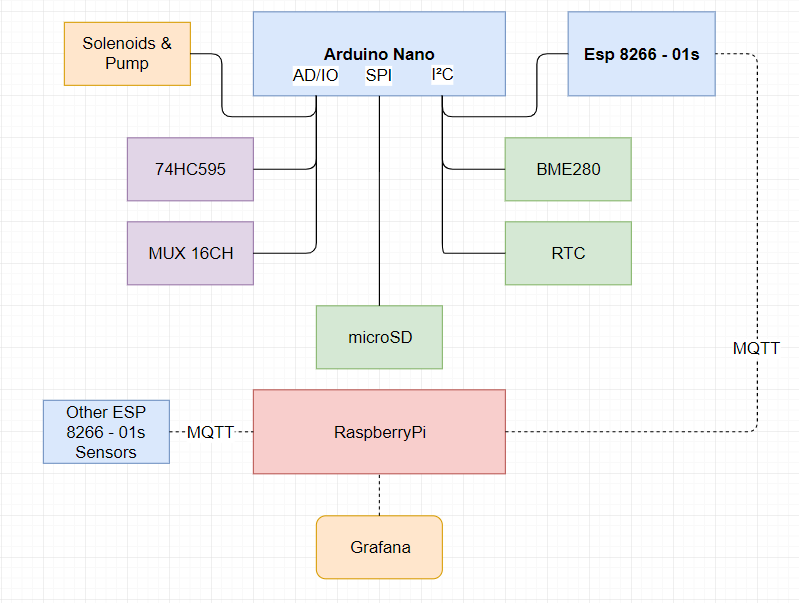
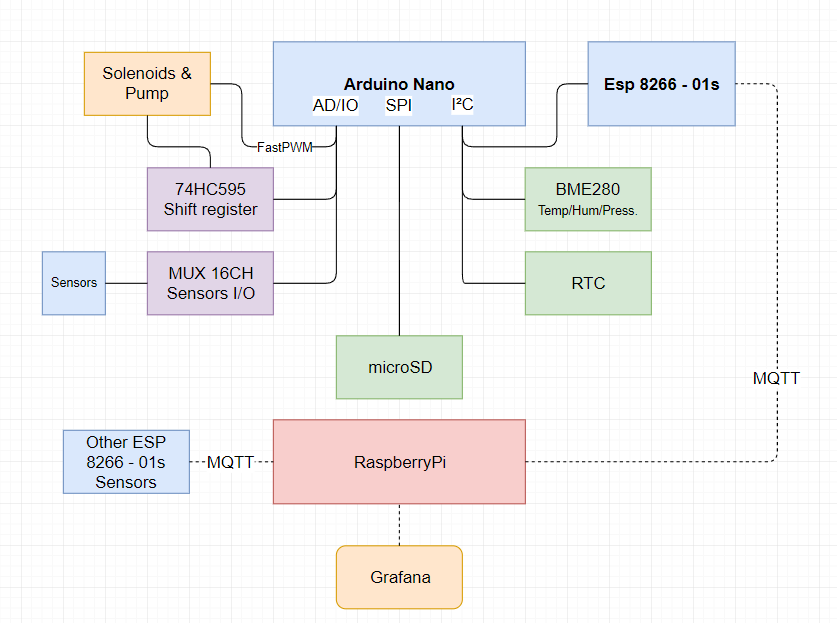
Documentation updated

Changed region(s): [[0.03, 0.0, 0.9011, 0.9851], [0.9011, 0.5672, 0.9912, 0.6269], [0.8711, 0.7164, 0.9312, 0.7463]]

diff --git a/README.md b/README.md
@@ -1,5 +1,5 @@
 # Bewae - Bewässerungsprojekt v3.1
-Momentan ist diese Version eher als Testversion zu sehen. Neu hinzugefügt und getestet wird nun die steuerbarkeit über MQTT.
+Diese Version ist eher als Testversion zu sehen. Neu hinzugefügt und getestet wird nun die steuerbarkeit über MQTT.<br>
 
 In den weiteren Ordnern befinden sich der Code für beide Controller sowie das json export für das Grafana dashboard. Die Konfiguration des Raspberrypi fehlt noch, die verwendete Datenbank ist Influxdb. (Die Scripts befinden sich am Pi im ordner py_scripts und werden automatisiert gestartet mit cron als su)
 
@@ -9,21 +9,25 @@ In den weiteren Ordnern befinden sich der Code für beide Controller sowie das j
 ## Mainboard (bew_entwurf_v2_7)
 **bew_entwurf_v2_7.fzz** Hauptplatine
 **Platine_01.fzz** als Erweiterung mit esp01, Buckconverter etc. <br>
+
 Die Schaltungen wurden mit fritzing erstellt, die Steckbrettansicht bietet gute Übersicht und eignet sich ideal für Prototypen.
 ![Main PCB](/bewae_v3_1.png "Main board")
 
-## Ziel:
-Automatisierte bewässerung der Balkonpflanzen. Zusätzlich speichern von Sensordaten.
+## Ziele:
+- Automatisierte bewässerung der Balkonpflanzen
+- Speichern von Sensordaten & cool graphs
+- Überwachung & Steuerung von unterwegs
 
 ## Beschreibung:
 Schaltungsaufbau grob übersichtlich im beigefügten Systemdiagramm.png als Blockschaltbild. Die Daten werden via ESP01 über MQTT an den RaspberryPi gesendet, dort gespeichert und dank Grafana als schöne Diagramme dargestellt.
- Automatisiert bewässert wird 2 mal Täglich morgends und abends, momentan sind theoretisch bis zu 6 kreisläufe und 2 Pumpen schalt und steuerbar. Mit einem MQTT messaging client ist möglich in die bewässerung einzugreifen und gespeicherte werte zu verändern, wobei die bewässerungszeit immer in sekunden gerechnet wird.
+Automatisiert bewässert wird momentan 2 mal Täglich morgends und abends, theoretisch sind bis zu 6 Ventile und 2 Pumpen schalt und steuerbar (erweiterbar). Mit einem MQTT messaging client ist möglich in die bewässerung einzugreifen und gespeicherte werte zu verändern sowie die Messdaten über Grafana im auge zu behalten.
 
 ## Details:
 ### Kommunikationn:
 ### I2C:
-(Beschreibung iic ergänzen)
-Im fall dieses Projektes spielt die Kommunikationn der beiden Mikrocontroller eine tragende Rolle. Grundsätzlich ist ein Multi-master betrieb möglich wenn auch oft nicht empfohlen. Für die fehlerfreie kommunikation müssen leider beide controller als Master dem Bus beitreten. Hauptsächlich als Master verwende ich den Arduino Nano der dem ESP-01 signalisiert wann er als Master die Kommunikationn übernehmen darf. In den weiteren Iterrationen des Programms möchte ich diese Eigenschaft noch mehr besser herausarbeiten.
+I²C (Inter-Integrated Circuit) ein Serieller Datenbus der von Philips Semiconductors entwickelt wurde und hauptsächlich für sehr kurze strecken (gerätintern) vorgesehen ist. <br>
+
+Im fall dieses Projektes spielt die Kommunikationn der beiden Mikrocontroller eine tragende Rolle. Grundsätzlich ist ein Multi-master betrieb möglich wenn auch oft nicht empfohlen. Für die fehlerfreie kommunikation in beide Richtungen müssen leider beide controller als Master dem Bus beitreten. Hauptsächlich als Master verwende ich den Arduino Nano der dem ESP-01 signalisiert wann er als Master die Kommunikationn übernehmen darf um komplikationen zu vermeiden. In den weiteren Iterrationen des Programms möchte ich diese Eigenschaft noch mehr besser herausarbeiten.
 
 ### MQTT:
 (beschreibung ergänzen)
@@ -33,9 +37,13 @@ Im fall dieses Projektes spielt die Kommunikationn der beiden Mikrocontroller ei
 
 ## Code ESP8266-01:
 ### Allgemein:
+<<<<<<< Updated upstream
 Dieser $\mu C$ wwird verwendet um dem System Zugang zum Lokalen Netzwerk zu verschaffen. Die Kommunikation erfolgt Seriel mit i2c. Den ESP-01 als slave des Nanos zu verwenden bringt einige Probleme mit sich. Die CPU frequenz des ESP-01 muss auf $160MHz$ statt den standardmäßigen $80MHz$ angehoben werden und am Nano muss die Frequenz des Buses reduziert werden. Damit auch der ESP-01 dem Arduino zuverläßig Daten senden kann wird der Bus mit 2 Master also Multimasterbetrieb betrieben. <br>Nach all diesen Anpassungen funktioniert die Kommunikation sehr stabil, sehr selten kommt es zu kleinen Fehlern in der Übertragung deshalb wird am Schluss einer Übertragung als letztes Byte eine festgelegte Zahl, die der Zuordnung und Kontrolle zum ausschluss von fehlern dient, gesendet.
+=======
+Dieser Mikrocontroller wwird verwendet um dem System Zugang zum Lokalen Netzwerk zu verschaffen. Die Kommunikation erfolgt Seriel mit i2c. Den ESP-01 als slave des Nanos zu verwenden bringt einige Probleme mit sich. Die CPU frequenz des ESP-01 muss auf *160MHz* statt den standardmäßigen *80MHz* angehoben werden und am Nano muss die Frequenz des Buses reduziert werden. Damit auch der ESP-01 dem Arduino zuverläßig Daten senden kann wird der Bus mit 2 Master also Multimasterbetrieb betrieben. <br>Nach all diesen Anpassungen funktioniert die Kommunikation sehr stabil, sehr selten kommt es zu kleinen Fehlern in der Übertragung deshalb wird am Schluss einer Übertragung als letztes Byte eine festgelegte Zahl, die der Zuordnung und Kontrolle zum ausschluss von fehlern dient, gesendet.
+>>>>>>> Stashed changes
 ### Details: Programmierung mit Arduino IDE
-Um die CPU frequenz des ESP beim programmieren mit der Arduino IDE zu ändern muss man beim Menüpunkt 'File' --> 'Preferences' und unter 'Additional Boards Manager URLs:' folgende ergänzt werden $'https://dl.espressif.com/dl/package_esp32_index.json, http://arduino.esp8266.com/stable/package_esp8266com_index.json'$ <br>
+Um die CPU frequenz des ESP beim programmieren mit der Arduino IDE zu ändern muss man beim Menüpunkt 'File' --> 'Preferences' und unter 'Additional Boards Manager URLs:' folgende ergänzt werden *https://dl.espressif.com/dl/package_esp32_index.json*, *http://arduino.esp8266.com/stable/package_esp8266com_index.json* <br>
 Nun kann man unter dem Menüpunkt 'Tools' --> 'Board' nach 'Generic ESP8266 Module' wählen. Nachdem die restlichen einstellugnen wie im aus dem Bild zu entnehmen vorgenommen wurden ist die IDE bereit für den Upload eventuell fehlende librarys müssen gegebenenfalls noch Installiert werden, dies ist einfach über den library manager möglich.
 ![ESP01 upload configuration](/esp01upload.png "Upload configuration")
 
@@ -47,10 +55,9 @@ Persöhnlich verwende ich gerade einen RaspberryPi 4 mit 4GB Ram auf dem auch ei
 - IP oder hostname des RaspberryPi (IP statisch vergeben)
 Für die erleichterte Konfiguration entweder Bildschirm, ssh, teamviewer, vnc viewer ... am Raspberrypi auch auf diese Punkte gehe ich nicht weiter ein da anderswo gut zu finden. <br>
 ### InfluxDB:
+Falls influx noch nicht installiert wurde gibt es nach kurzer suche jede menge brauchabre Anleitungen z.B: [(pimylifeup)](https://pimylifeup.com/raspberry-pi-influxdb/).
 ```
-if(1){
-    blabla;
-}
+
 ```
 ### Grafana:
 
